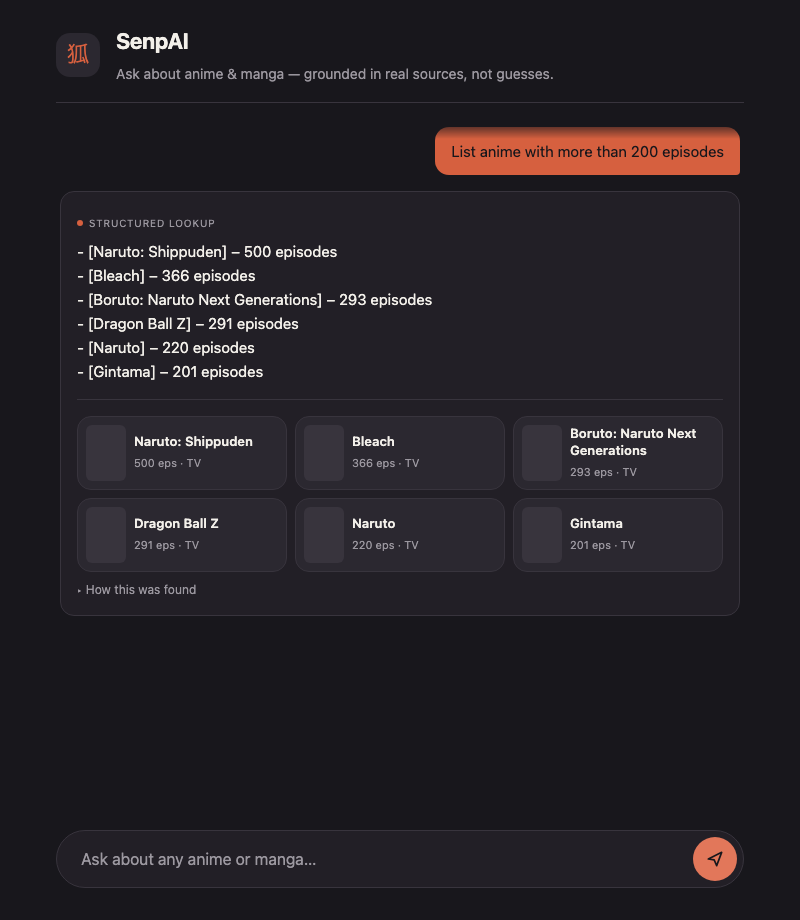
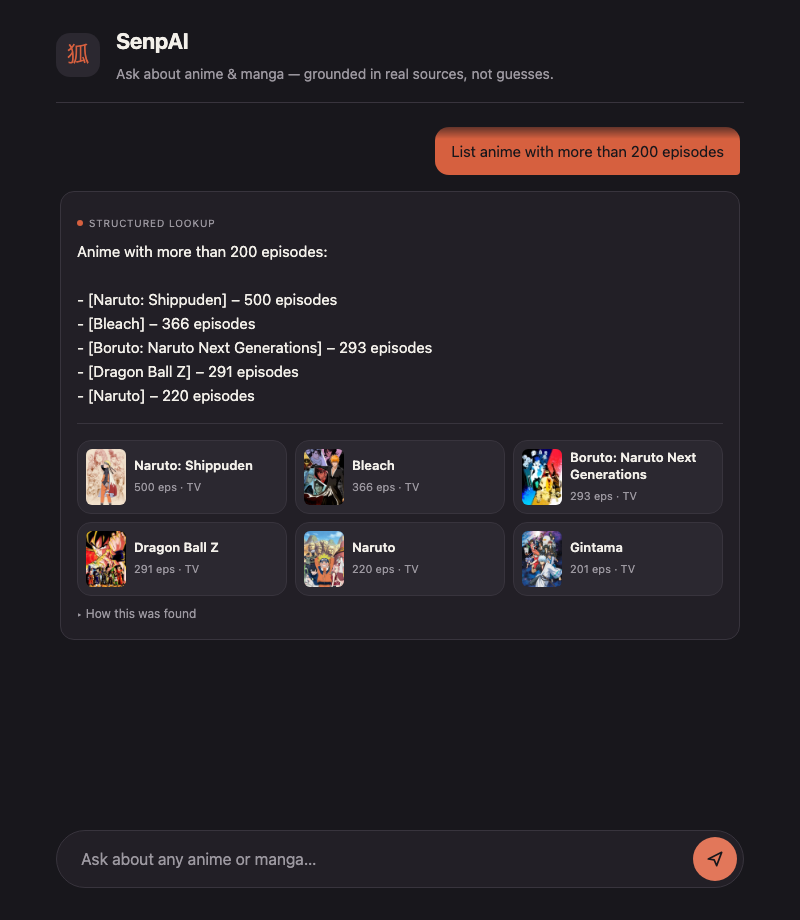
Fix filter_media RPC overload conflict, update README for opinion_search
- Remove supabase/filter_media.sql: a stale duplicate definition of
  filter_media (different signature, no source_id) that had been
  applied to the live DB alongside schema.sql's version. Postgres
  can't disambiguate two overloads with the same name, so every
  filter_lookup call was failing (PGRST203) and, before that, the
  missing source_id was silently breaking cover-art lookup on the
  filter route. schema.sql's 4-param version is now the only one.
- Retake docs/screenshot-filter.png now that cover art actually loads
  on filter-route source cards.
- README: "Why a router" now lists all three tools (was missing
  opinion_search).

Changed region(s): [[0.0938, 0.2435, 0.5312, 0.6696], [0.625, 0.4565, 0.875, 0.6391], [0.375, 0.4565, 0.5, 0.6391]]

diff --git a/README.md b/README.md
@@ -17,8 +17,9 @@ Each source is a card, not a bare pill: cover art (fetched from AniList), title,
 
 Top-k similarity search silently fails on whole-corpus questions: "which anime have more than 150 episodes?" needs to scan all 250 rows, not the 5 most similar chunks. So the model picks a tool per question via real function-calling (`tool_choice: required`), not a manual classifier prompt:
 
-- `semantic_search` — embed the query, pgvector `match_media_chunks()` RPC (plot/synopsis questions)
+- `semantic_search` — embed the query, pgvector `match_media_chunks()` RPC over AniList synopses (plot/character/terminology questions)
 - `filter_lookup` — `filter_media()` SQL RPC over all rows (genre/episode/format filters, lists, counts)
+- `opinion_search` — same `match_media_chunks()` RPC, filtered to MAL fan reviews instead of synopses (opinion/reception/recommendation questions)
 
 One production detail worth knowing: open-weight models sometimes emit a hallucinated answer in `message.content` *alongside* the real `tool_calls`. The implementation discards `content` and only trusts the executed tool result.
 